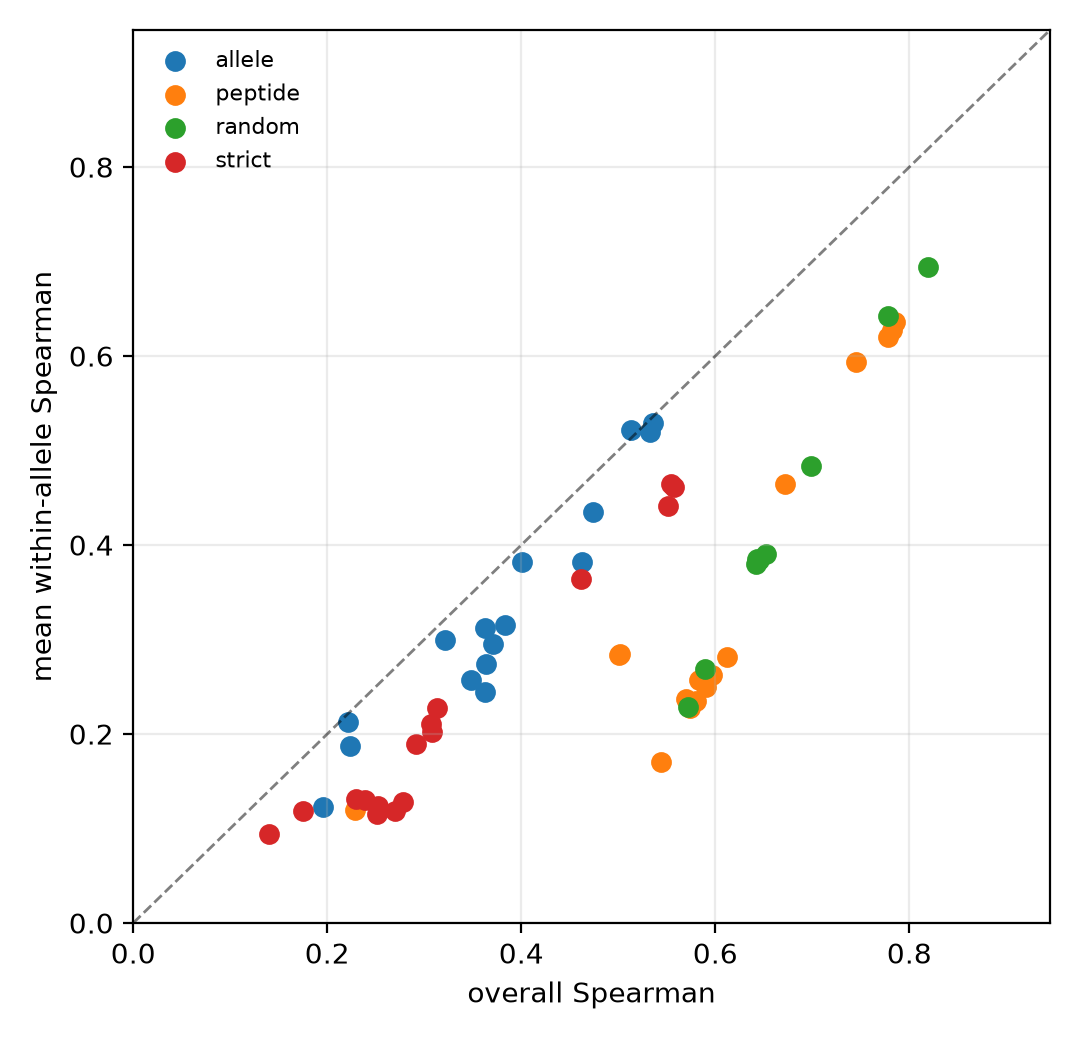
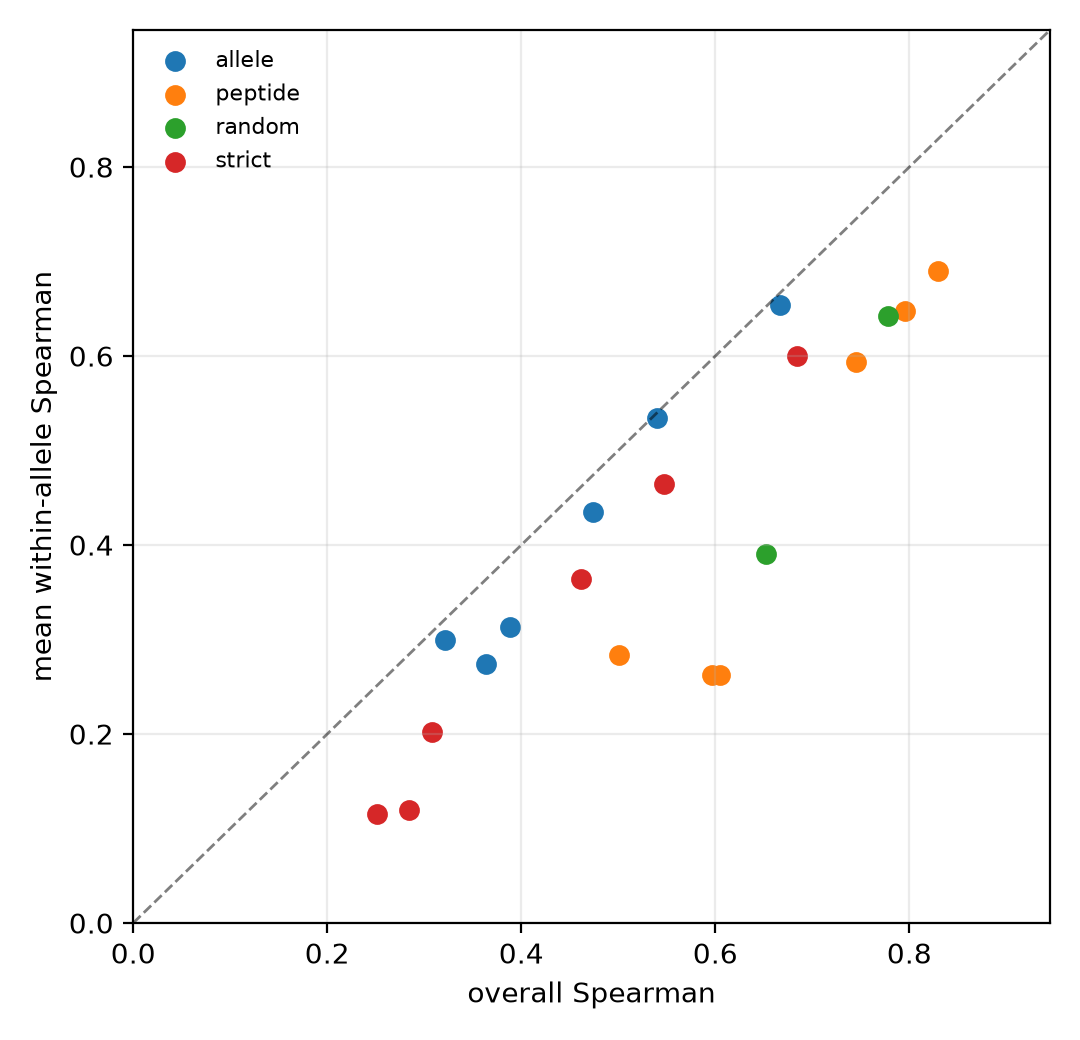
fix: the headline figure was unreadable
With 110 result rows accumulated, split_ladder was drawing all 34
experiments: colours repeating, the legend covering half the canvas,
nothing legible. It had been listed as a deliverable without being
looked at since the first handful of runs.

Now it draws six named systems with deliberate colours and widths, and
drops the random split -- 89% of its test peptides are in training and
the strongest configurations were never run on it, so including it left
the two best lines starting mid-plot as though data were missing. The
leakage story belongs in , which shows it properly.

The figure now makes a point the tables did not: the affinity-transfer
model is the only one that does not collapse, holding 0.67-0.68 across
both hard splits while everything else falls away.

Claude-Session: https://claude.ai/code/session_01YVLeMXMWcPJfdVMjBZCKsL

diff --git a/scripts/make_figures.py b/scripts/make_figures.py
@@ -25,38 +25,64 @@ SPLIT_LABEL = {
 }
 
 
-def split_ladder(df, metric: str = "spearman") -> None:
-    """One line per system across the split ladder. The collapse is the point."""
-    fig, ax = plt.subplots(figsize=(7.5, 4.6))
-    order = [s for s in SPLIT_ORDER if s in set(df["split"])]
-    for name, grp in df.groupby("name"):
-        grp = grp.set_index("split").reindex(order).dropna(subset=[metric])
-        if grp.empty:
+#: The systems worth putting in front of a reader, in the order they should be read.
+#: Everything else in artifacts/results is an ablation that supports one of these.
+HEADLINE = [
+    ("R6_affinity_plus_R1", "BLOSUM + affinity transfer (ours)", "#0b6e4f", 2.6, "-"),
+    ("R1C_target_rank", "BLOSUM + XGBoost", "#1b4f9c", 2.2, "-"),
+    ("netmhcstabpan_arch", "NetMHCstabpan architecture", "#555555", 2.0, "--"),
+    ("prott5_mean_xgb", "ProtT5-XL (3B)", "#d08c18", 1.8, "-"),
+    ("esm2_t33_mean_xgb_svd", "ESM2-650M frozen", "#c0392b", 1.8, "-"),
+    ("R4_reference", "ProteinMPNN geometry (13 features)", "#7b4fa0", 1.6, ":"),
+]
+
+
+def split_ladder(df, metric: str = "spearman", out_dir: Path = OUT) -> None:
+    """Six systems across the split ladder. The collapse from left to right is the argument.
+
+    Only the headline systems are drawn. Plotting all 34 experiments produces an unreadable
+    tangle -- the ablations live in `hla report` and `hla delta`, not in a figure.
+    """
+    # The random split is excluded on purpose: 89% of its test peptides are in training, and
+    # the strongest configurations were never run on it because the number would mean nothing.
+    # The leakage audit (`hla splits`) is where that story belongs.
+    order = [s for s in SPLIT_ORDER if s in set(df["split"]) and s != "random"]
+    fig, ax = plt.subplots(figsize=(8.0, 5.0))
+
+    for name, label, colour, width, style in HEADLINE:
+        grp = df[df["name"] == name].set_index("split").reindex(order)
+        series = grp[metric].dropna()
+        if series.empty:
             continue
-        xs = [order.index(s) for s in grp.index]
-        ax.plot(xs, grp[metric], marker="o", label=name, linewidth=2)
-        if f"{metric}_std" in grp:
-            ax.fill_between(
-                xs,
-                grp[metric] - grp[f"{metric}_std"],
-                grp[metric] + grp[f"{metric}_std"],
-                alpha=0.12,
-            )
+        xs = [order.index(s) for s in series.index]
+        ax.plot(xs, series.to_numpy(), marker="o", markersize=5, label=label,
+                color=colour, linewidth=width, linestyle=style, zorder=3)
+        std_col = f"{metric}_std"
+        if std_col in grp:
+            lo = (series - grp.loc[series.index, std_col].fillna(0)).to_numpy()
+            hi = (series + grp.loc[series.index, std_col].fillna(0)).to_numpy()
+            ax.fill_between(xs, lo, hi, color=colour, alpha=0.10, zorder=1)
+
     ax.set_xticks(range(len(order)))
-    ax.set_xticklabels([SPLIT_LABEL.get(s, s) for s in order], fontsize=8)
-    ax.set_ylabel(f"{metric} (5-fold mean ± sd)")
+    ax.set_xticklabels([SPLIT_LABEL.get(s, s) for s in order], fontsize=9)
+    ax.set_ylabel({"spearman": r"Spearman $\rho$",
+                   "spearman_per_allele_mean": r"within-allele Spearman $\rho$"}
+                  .get(metric, metric) + "  (5-fold mean ± sd)")
     ax.set_xlabel("evaluation regime, easiest to hardest")
+    ax.set_ylim(0, 0.95)
     ax.grid(axis="y", alpha=0.25)
-    ax.legend(fontsize=8, frameon=False)
+    ax.set_axisbelow(True)
+    ax.legend(fontsize=9, frameon=False, loc="lower left")
     fig.tight_layout()
-    OUT.mkdir(parents=True, exist_ok=True)
-    fig.savefig(OUT / f"split_ladder_{metric}.png", dpi=200)
-    print(f"-> {OUT / f'split_ladder_{metric}.png'}")
+    out_dir.mkdir(parents=True, exist_ok=True)
+    fig.savefig(out_dir / f"split_ladder_{metric}.png", dpi=200)
+    print(f"-> {out_dir / f'split_ladder_{metric}.png'}")
 
 
-def overall_vs_per_allele(df) -> None:
+def overall_vs_per_allele(df, out_dir: Path = OUT) -> None:
     """Overall Spearman flatters every model; within-allele ranking is the honest number."""
-    sub = df.dropna(subset=["spearman", "spearman_per_allele_mean"])
+    names = {n for n, *_ in HEADLINE}
+    sub = df[df["name"].isin(names)].dropna(subset=["spearman", "spearman_per_allele_mean"])
     if sub.empty:
         return
     fig, ax = plt.subplots(figsize=(5.4, 5.2))
@@ -71,9 +97,9 @@ def overall_vs_per_allele(df) -> None:
     ax.grid(alpha=0.25)
     ax.legend(fontsize=8, frameon=False)
     fig.tight_layout()
-    OUT.mkdir(parents=True, exist_ok=True)
-    fig.savefig(OUT / "overall_vs_per_allele.png", dpi=200)
-    print(f"-> {OUT / 'overall_vs_per_allele.png'}")
+    out_dir.mkdir(parents=True, exist_ok=True)
+    fig.savefig(out_dir / "overall_vs_per_allele.png", dpi=200)
+    print(f"-> {out_dir / 'overall_vs_per_allele.png'}")
 
 
 
